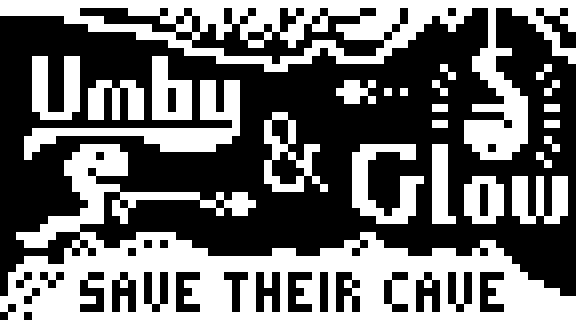
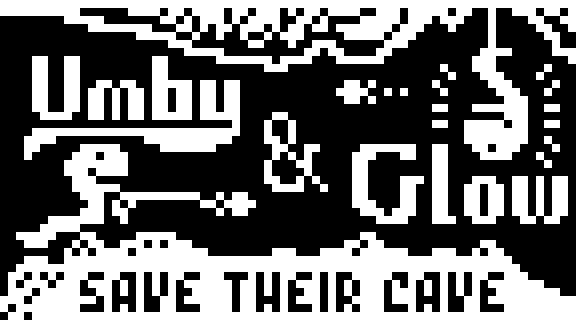
New improved font by Auri! Way better design, more consistent, more legible, more Umby-esk! All credit for this commit goes to Auri (@Auri#8401)

diff --git a/Games/Umby&Glow/tape.py b/Games/Umby&Glow/tape.py
@@ -1,4 +1,5 @@
 # Copyright © 2022 John van Leeuwen <jvl@convex.cc>
+# Copyright © 2022 Auri <@Auri#8401(Discord)>
 #    This program is free software: you can redistribute it and/or modify
 #    it under the terms of the GNU General Public License as published by
 #    the Free Software Foundation, either version 3 of the License, or
@@ -16,9 +17,20 @@ from array import array
 from machine import Pin, SPI
 from time import sleep_ms, ticks_ms
 
-_FPS = const(60)
+# Font by Auri (@Auri#8401)
+_font = (
+    # Alphabet # BITMAP: width: 78, height: 8
+    bytearray([240,72,248,240,168,88,240,136,152,248,136,112,240,168,136,248,40,8,112,136,200,248,64,248,136,248,136,64,136,248,248,96,152,120,136,128,248,56,248,248,8,240,240,136,248,240,72,56,112,200,248,240,72,184,176,168,200,8,248,8,120,128,248,248,192,56,248,224,248,216,96,216,152,160,120,200,168,152])
+
+    + # Numbers # BITMAP: width: 30, height: 8
+    bytearray([120,136,240,144,248,192,208,136,176,136,168,88,32,48,248,88,136,104,112,168,200,8,200,56,88,168,208,56,40,240])
+    + # Symbols # BITMAP: width: 57, height: 8
+    bytearray([184,0,184,16,136,48,216,216,0,152,216,0,0,24,0,24,0,24,128,96,24,136,80,32,32,80,136,240,136,0,0,136,120,112,136,0,0,136,112,192,192,0,128,192,0,32,112,32,80,32,80,32,32,32,0,0,0])
+    )
+_font_index = "ABCDEFGHIJKLMNOPQRSTUVWXYZ" +"0123456789" +"!?:;'\"/><[]().,+*- "
 
 # Setup basic display access
+_FPS = const(60)
 from ssd1306 import SSD1306_SPI
 display = SSD1306_SPI(72, 40,
     SPI(0, sck=Pin(18), mosi=Pin(19)), dc=Pin(17), res=Pin(20), cs=Pin(16))
@@ -115,22 +127,9 @@ class Tape:
         self.x = memoryview(self._tape_scroll)[3:5]
         self.midx = memoryview(self._tape_scroll)[1:2]
         # Alphabet for writing text - 3x5 text size (4x6 with spacing)
-        # @ = Umby and ^ = Glow
-            # BITMAP: width: 126, height: 8
-        self.abc = (bytearray([240,40,240,248,168,208,248,136,216,248,136,112,
-            248,168,136,248,40,8,112,136,232,248,32,248,136,248,136,192,136,
-            248,248,32,216,248,128,128,248,16,248,248,8,240,248,136,248,248,40,
-            56,120,200,184,248,40,216,176,168,232,8,248,8,248,128,248,120,128,
-            120,248,64,248,216,112,216,184,160,248,200,168,152,0,0,0,0,184,0,
-            128,96,0,192,192,0,0,80,0,32,32,32,32,80,136,136,80,32,8,168,56,0,
-            248,136,136,248,0,128,240,48,0,248,192,64,32,16,32,112,32,80,32,
-            80])
-            # BITMAP: width: 30, height: 8 (numbers)
-            + bytearray([16,248,0,144,200,176,136,168,248,56,32,248,184,168,
-            72,240,168,232,8,232,24,248,168,248,56,40,248,248,136,248]))
-        self.abc_i = dict((v, i) for i, v in enumerate(
-            "ABCDEFGHIJKLMNOPQRSTUVWXYZ !,.:-<>?[]@^/+*1234567890"))
-
+        # Custom emojis: @ = Umby and ^ = Glow
+        self.abc = _font + bytearray([128,240,48,0,248,192])
+        self.abc_i = dict((v, i) for i, v in enumerate(_font_index+"@^"))
         # The patterns to feed into each tape section
         self.feed = [None, None, None, None, None]
     
@@ -522,7 +521,7 @@ class Tape:
         for i in range(int(len(text))):
             for o in range(3):
                 p = (x+o+i*4)%216*2
-                b = abc_b[int(abc_i.get(text[i], 26))*3+o]
+                b = abc_b[int(abc_i.get(text[i], -1))*3+o]
                 img1 = b >> 0-h if h < 0 else b << h
                 img2 = b >> 32-h if h-32 < 0 else b << h-32
                 # Draw to the draw layer

diff --git a/Games/Umby&Glow/Umby&Glow.py b/Games/Umby&Glow/Umby&Glow.py
@@ -10,7 +10,6 @@
 #    You should have received a copy of the GNU General Public License
 #    along with this program.  If not, see <https://www.gnu.org/licenses/>.
 
-
 ## Game loading screen and setup ##
 
 # Speed up the CPU speed
@@ -73,23 +72,11 @@ from ssd1306 import SSD1306_SPI
 def _load_title_screen():
     # Title graphics.
     # BITMAP: width: 72, height: 40
-    title = bytearray([3,3,3,3,131,131,3,3,135,135,5,13,13,9,9,9,11,27,27,147,
-        149,55,43,109,83,79,71,223,137,135,155,173,175,151,15,145,187,157,199,
-        107,45,99,203,155,155,157,157,223,111,55,57,31,15,7,3,7,13,7,3,129,193,
-        255,65,65,3,3,7,13,27,115,69,207,0,0,0,0,63,127,64,64,127,63,0,120,124,
-        4,120,4,124,120,0,127,127,68,124,124,0,124,124,64,124,252,0,0,0,129,65,
-        65,128,0,0,0,0,0,8,28,28,8,20,0,8,0,8,0,0,0,164,169,2,0,128,161,163,
-        167,174,124,248,240,0,2,169,164,0,0,0,0,0,14,7,3,3,1,49,249,253,221,
-        181,189,189,57,1,1,3,3,7,7,7,7,7,7,7,3,3,1,0,0,0,115,206,132,139,208,
-        60,68,128,0,0,0,248,252,12,4,4,4,204,204,64,0,252,252,0,0,131,199,79,
-        203,143,15,199,195,0,200,18,196,192,0,0,0,32,96,96,112,56,24,152,88,
-        173,111,207,128,134,205,67,225,161,225,161,225,193,193,129,130,2,5,2,7,
-        7,2,0,0,128,128,128,0,0,0,128,128,128,192,67,167,230,204,136,140,143,7,
-        0,0,143,143,136,0,7,143,72,207,135,0,7,15,8,7,8,15,7,0,96,188,246,91,
-        239,251,246,250,255,255,167,171,139,255,135,235,135,255,195,191,195,
-        255,131,171,187,255,255,255,251,131,251,255,131,239,131,255,131,171,
-        187,255,131,255,131,235,151,255,255,255,199,187,187,255,135,235,135,
-        255,195,191,195,255,131,171,187,255,254,252,248,248,240,240,224,224])
+    title = bytearray([3,3,3,3,131,131,3,3,135,135,5,13,13,9,9,9,11,27,27,147,149,55,43,109,83,79,71,223,137,135,155,173,175,151,15,145,187,157,199,107,45,99,203,155,155,157,157,223,111,55,57,31,15,7,3,7,13,7,3,129,193,255,65,65,3,3,7,13,27,115,69,207,
+           0,0,0,0,63,127,64,64,127,63,0,120,124,4,120,4,124,120,0,127,127,68,124,124,0,124,124,64,124,252,0,0,0,129,65,65,128,0,0,0,0,0,8,28,28,8,20,0,8,0,8,0,0,0,164,169,2,0,128,161,163,167,174,124,248,240,0,2,169,164,0,0,
+           0,0,0,14,7,3,3,1,49,249,253,221,181,189,189,57,1,1,3,3,7,7,7,7,7,7,7,3,3,1,0,0,0,115,206,132,139,208,60,68,128,0,0,0,248,252,12,4,4,4,204,204,64,0,252,252,0,0,131,199,79,203,143,15,199,195,0,200,18,196,192,0,
+           0,0,32,96,96,112,56,24,152,88,173,111,207,128,134,205,67,225,161,225,161,225,193,193,129,130,2,5,2,7,7,2,0,0,128,128,128,0,0,0,128,128,128,192,67,167,230,204,136,140,143,7,0,0,143,143,136,0,7,143,72,207,135,0,7,15,8,7,8,15,7,0,
+           96,188,246,91,239,251,246,250,255,255,167,171,155,255,135,219,131,255,131,159,227,255,135,171,187,255,255,255,251,131,251,255,131,223,131,255,135,171,187,255,131,255,131,219,167,255,255,255,135,187,179,255,135,219,131,255,131,159,227,255,135,171,187,255,254,252,248,248,240,240,224,224])
 
     # Setup basic display access
     display = SSD1306_SPI(72, 40,

diff --git a/README.md b/README.md
@@ -4,6 +4,9 @@
 
 Coop side scrolling platformer for the Thumby device - Umby the earthworm and Glow the caveworm team up to save their cave, and the world!
 
+# Font by Auri
+Special thanks to Auri for the U&G 3x5 font designs, which is at the heart of the aesthetics of the whole game.
+
 ## TODO
 * Write remainder of script / story
 * Add 8 more levels, and more monsters!
